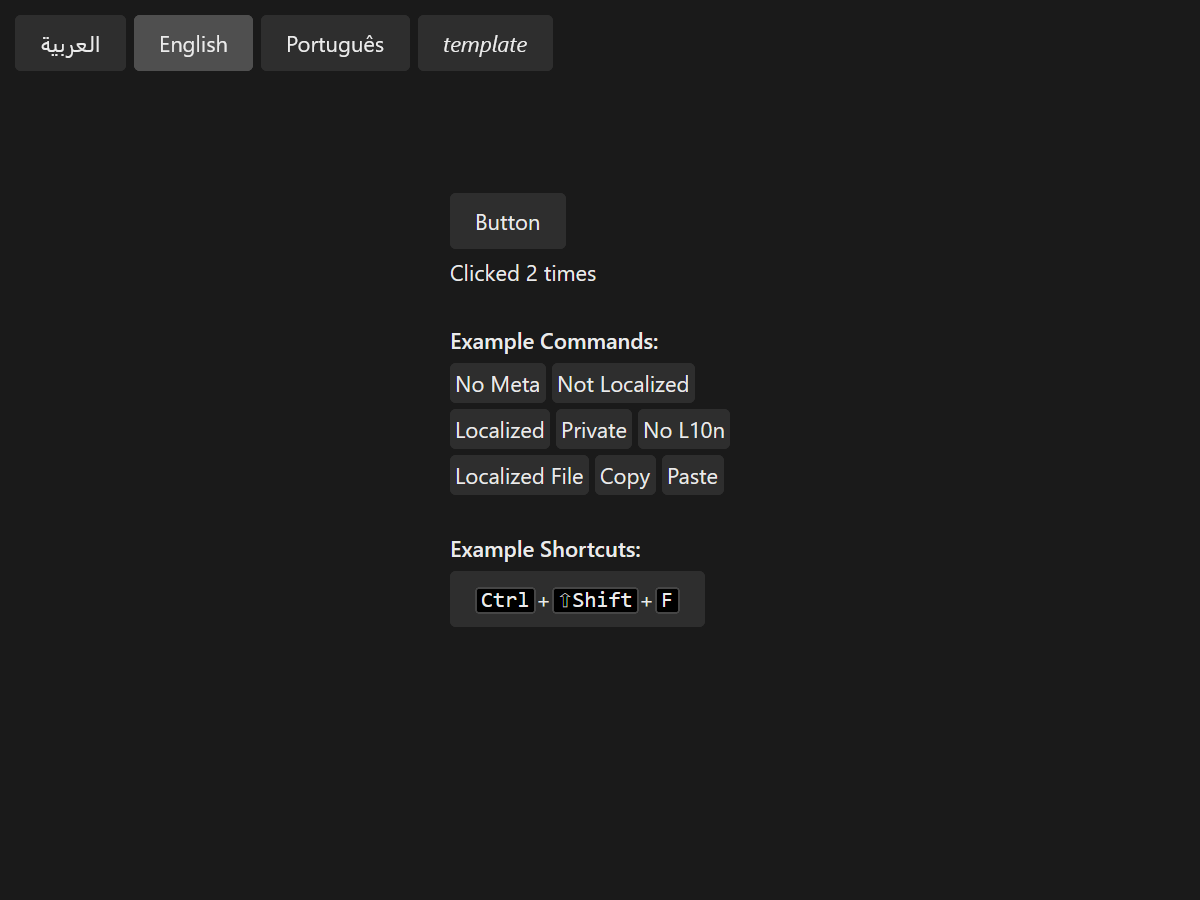
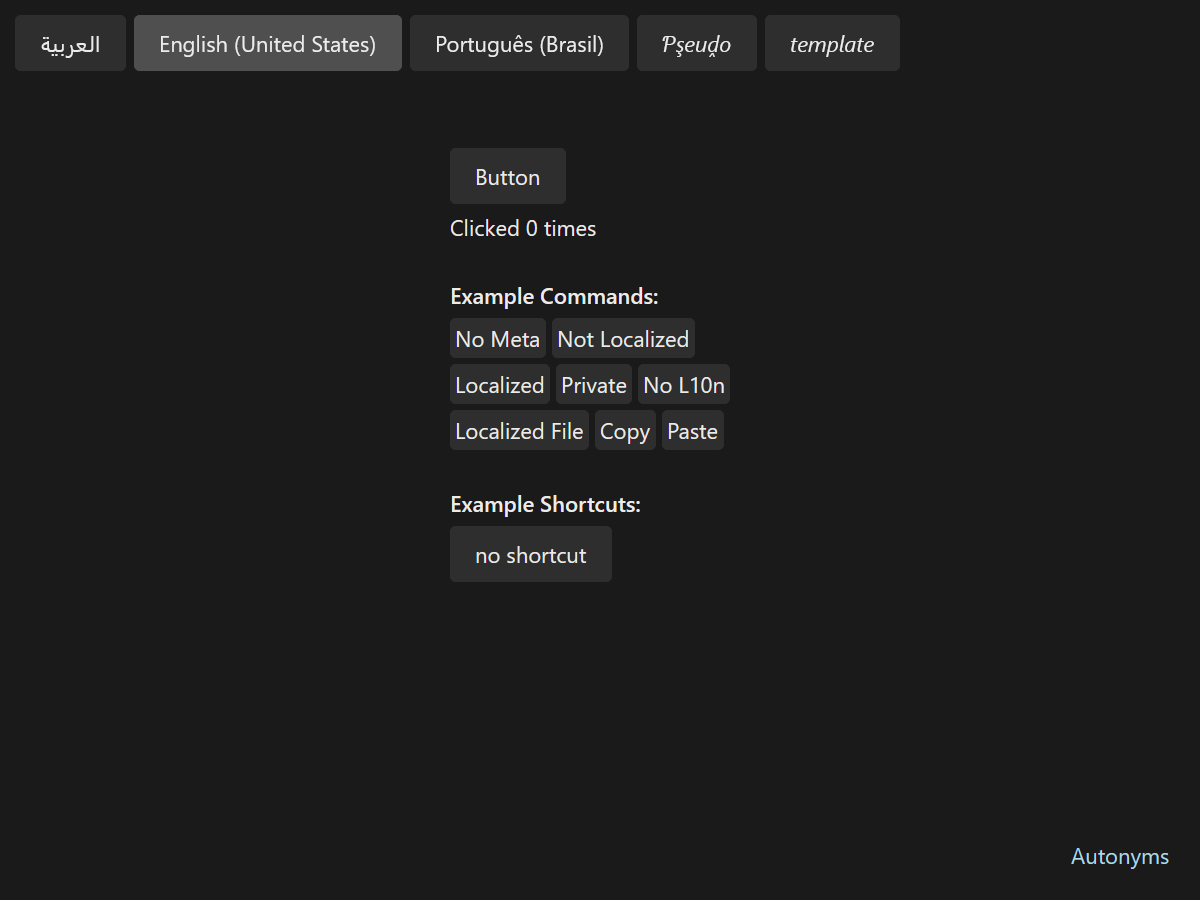
Add autonym list in localize example
This is a test of font availability

diff --git a/examples/localize/src/main.rs b/examples/localize/src/main.rs
@@ -58,6 +58,14 @@ fn main() {
             icon = WindowIcon::render(window_icon);
             child_top = locale_menu();
             child = window_content();
+            child_bottom = Stack! {
+                direction = StackDirection::top_to_bottom();
+                spacing = 5;
+                layout::margin = 20;
+                align = Align::BOTTOM_RIGHT;
+                children_align = Align::RIGHT;
+                children = ui_vec![autonyms()];
+            };
         }
     })
 }
@@ -315,5 +323,58 @@ fn shortcut_input_dialog(output: Var<gesture::Shortcuts>) -> UiNode {
             _ => colors::WHITE.with_alpha(90.pct()),
         });
         padding = 20;
+    }
+}
+
+fn autonyms() -> UiNode {
+    Button! {
+        child = Text!("Autonyms");
+        style_fn = zng::button::LinkStyle!();
+        on_click = hn!(|_| {
+            WINDOWS.focus_or_open("autonym-list", async { autonym_list() });
+        });
+    }
+}
+fn autonym_list() -> window::WindowRoot {
+    Window! {
+        title = "Localize - Autonyms";
+        child = Scroll! {
+            mode = zng::scroll::ScrollMode::VERTICAL;
+            child = Grid! {
+                spacing = 5;
+                columns = ui_vec![grid::Column!(), grid::Column!()];
+                cells =
+                    ui_vec![
+                        Text! {
+                            font_weight = FontWeight::BOLD;
+                            txt = "id";
+                            grid::cell::at = (0, 0);
+                        },
+                        Text! {
+                            font_weight = FontWeight::BOLD;
+                            txt = "autonym";
+                            grid::cell::at = (1, 0);
+                        },
+                    ]
+                    .chain({
+                        let mut samples = ui_vec![];
+                        for (i, l_str) in include_str!("../../../tools/lang-autonym-gen/src/locales.txt").lines().enumerate() {
+                            let row = i + 1;
+                            let l: zng::l10n::Lang = l_str.parse().unwrap();
+                            samples.push(Text! {
+                                txt = formatx!("{l:?}");
+                                grid::cell::at = (0, row);
+                            });
+                            samples.push(Text! {
+                                txt = formatx!("{l:#}");
+                                lang = l;
+                                grid::cell::at = (1, row);
+                            });
+                        }
+                        samples
+                    }),
+                ;
+            };
+        };
     }
 }

diff --git a/tools/lang-autonym-gen/src/main.rs b/tools/lang-autonym-gen/src/main.rs
@@ -9,107 +9,13 @@ use unic_langid::LanguageIdentifier;
 use icu::locale::LanguageIdentifier as StrictLanguageIdentifier;
 
 fn main() {
-    let locales = [
-        "af",
-        "am",
-        "ar",
-        "as",
-        "az",
-        "be",
-        "bg",
-        "bn",
-        "bs",
-        "ca",
-        "cs",
-        "cy",
-        "da",
-        "de",
-        "el",
-        "en",
-        "en-GB",
-        "en-US",
-        "es",
-        "es-419",
-        "es-ES",
-        "et",
-        "eu",
-        "fa",
-        "fi",
-        "fil",
-        "fr",
-        "fr-FR",
-        "fr-CA",
-        "ga",
-        "gd",
-        "gl",
-        "gu",
-        "he",
-        "hi",
-        "hr",
-        "hu",
-        "hy",
-        "id",
-        "is",
-        "it",
-        "ja",
-        "ka",
-        "kk",
-        "km",
-        "kn",
-        "ko",
-        "ky",
-        "lo",
-        "lt",
-        "lv",
-        "mk",
-        "ml",
-        "mn",
-        "mr",
-        "ms",
-        "my",
-        "nb",
-        "ne",
-        "nl",
-        "nn",
-        "or",
-        "pa",
-        "pl",
-        "ps",
-        "pt",
-        "pt-BR",
-        "pt-PT",
-        "ro",
-        "ru",
-        "si",
-        "sk",
-        "sl",
-        "sq",
-        "sr",
-        "sr-Latn",
-        "sv",
-        "sw",
-        "ta",
-        "te",
-        "th",
-        "tr",
-        "uk",
-        "ur",
-        "uz",
-        "vi",
-        "zh",
-        "zh-Hans",
-        "zh-Hant",
-        "zh-TW",
-        "zu",
-        "pseudo",
-        "pseudo-Mirr",
-        "pseudo-Wide",
-    ];
+    let locales = include_str!("locales.txt");
 
     if std::env::args().any(|a| a == "--locales") {
-        for l in locales {
-            println!("{l:?},");
+        for l in locales.lines() {
+            print!("{l:?},");
         }
+        println!();
         return;
     }
 
@@ -120,7 +26,7 @@ fn main() {
     let tc_mapper = TitlecaseMapper::new();
     let tc_options = TitlecaseOptions::default();
 
-    for l_str in locales {
+    for l_str in locales.lines() {
         let l_id: LanguageIdentifier = l_str.parse().unwrap_or_else(|e| panic!("{e}, {l_str}"));
         print!(
             r#"("{}", "{}", "{}") => "#,
